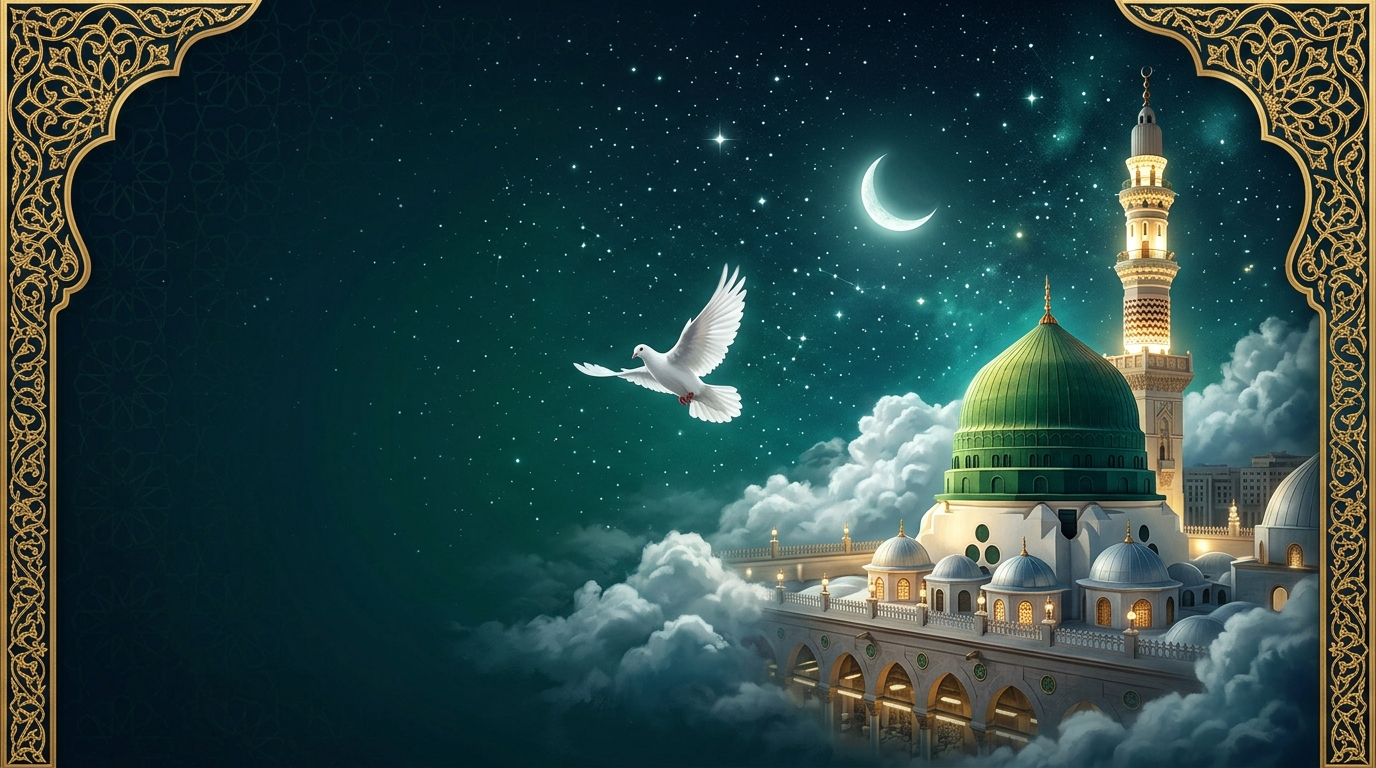
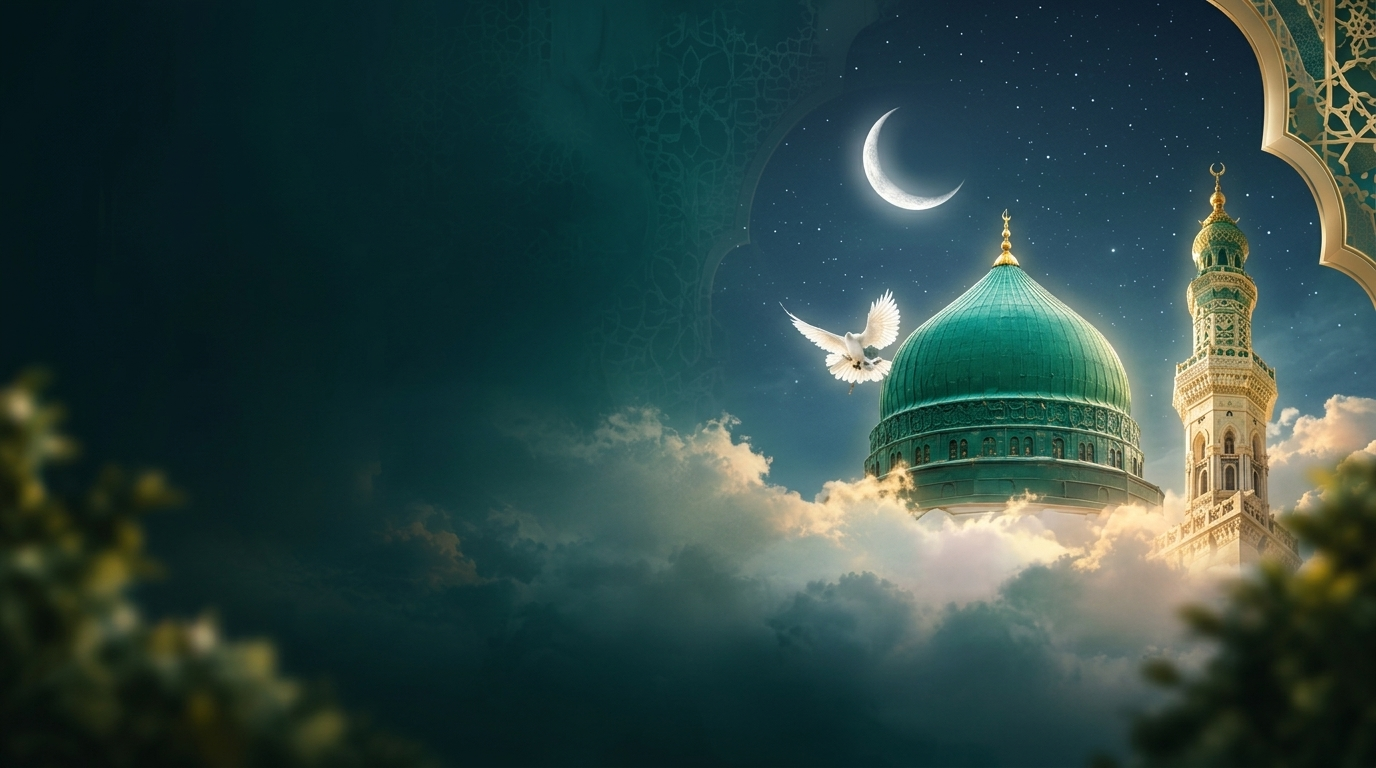
feat: replace hero bg with borderless luxury art, enhance 3D liquid glass blur and beveling

diff --git a/src/components/HeroSection.css b/src/components/HeroSection.css
@@ -21,12 +21,17 @@
   background-image: 
     linear-gradient(
       90deg, 
-      rgba(3, 13, 20, 0.95) 0%, 
-      rgba(3, 13, 20, 0.82) 38%, 
-      rgba(3, 13, 20, 0.35) 65%, 
-      rgba(3, 13, 20, 0.1) 100%
+      rgba(2, 10, 11, 0.90) 0%, 
+      rgba(4, 19, 21, 0.72) 35%, 
+      rgba(4, 19, 21, 0.15) 65%, 
+      transparent 100%
     ),
-    radial-gradient(circle at 80% 45%, rgba(0, 212, 170, 0.12), transparent 45%),
+    linear-gradient(
+      180deg,
+      transparent 75%,
+      rgba(2, 10, 11, 0.98) 100%
+    ),
+    radial-gradient(circle at 78% 45%, rgba(0, 255, 210, 0.08), transparent 50%),
     url('/hero-bg.jpg');
   background-size: cover;
   background-position: center right;
@@ -230,15 +235,30 @@
   display: flex;
   align-items: center;
   gap: 0.85rem;
-  padding: 0.75rem 1.35rem;
-  background: var(--liquid-glass);
-  backdrop-filter: var(--liquid-blur);
-  -webkit-backdrop-filter: var(--liquid-blur);
-  border: 1px solid var(--liquid-border);
+  padding: 0.85rem 1.45rem;
+  background:
+    radial-gradient(
+      120% 100% at 50% 0%,
+      rgba(255, 255, 255, 0.14) 0%,
+      rgba(255, 255, 255, 0.02) 60%,
+      transparent 100%
+    ),
+    linear-gradient(
+      135deg,
+      rgba(255, 255, 255, 0.08) 0%,
+      rgba(255, 255, 255, 0.02) 40%,
+      rgba(0, 255, 210, 0.035) 100%
+    );
+  backdrop-filter: blur(32px) saturate(180%) contrast(105%);
+  -webkit-backdrop-filter: blur(32px) saturate(180%) contrast(105%);
+  border: 1px solid rgba(255, 255, 255, 0.22);
   border-radius: var(--radius-lg);
   box-shadow: 
-    var(--liquid-shadow), 
-    var(--liquid-inset);
+    0 20px 48px -8px rgba(0, 0, 0, 0.65),
+    0 8px 20px -4px rgba(0, 0, 0, 0.40),
+    inset 0 1.5px 0 0 rgba(255, 255, 255, 0.45),
+    inset 1px 0 0 0 rgba(255, 255, 255, 0.18),
+    inset 0 -1.5px 0 0 rgba(0, 0, 0, 0.50);
   transition: var(--transition-liquid);
   position: relative;
   overflow: hidden;
@@ -247,22 +267,28 @@
 .hero-glass-mini-card::before {
   content: '';
   position: absolute;
-  top: 0;
-  left: 0;
-  right: 0;
-  height: 50%;
-  background: linear-gradient(180deg, rgba(255, 255, 255, 0.12) 0%, transparent 100%);
+  top: 1px;
+  left: 8px;
+  right: 8px;
+  height: 45%;
+  background: linear-gradient(
+    180deg,
+    rgba(255, 255, 255, 0.22) 0%,
+    rgba(255, 255, 255, 0.04) 70%,
+    transparent 100%
+  );
+  border-radius: var(--radius-lg);
   pointer-events: none;
 }
 
 .hero-glass-mini-card:hover {
   transform: translateY(-4px) scale(1.02);
-  background: var(--liquid-glass-hover);
-  border-color: var(--liquid-border-hover);
+  border-color: rgba(0, 255, 210, 0.45);
   box-shadow: 
-    var(--liquid-shadow-hover), 
-    0 0 24px rgba(0, 255, 210, 0.15), 
-    var(--liquid-inset);
+    0 28px 60px -8px rgba(0, 0, 0, 0.75),
+    0 0 28px rgba(0, 255, 210, 0.20),
+    inset 0 1.5px 0 0 rgba(255, 255, 255, 0.60),
+    inset 0 -1.5px 0 0 rgba(0, 0, 0, 0.50);
 }
 
 .hero-mini-icon {

diff --git a/src/components/Navbar.css b/src/components/Navbar.css
@@ -16,38 +16,81 @@
   align-items: center;
   border-radius: var(--radius-pill);
   background:
+    radial-gradient(
+      100% 120% at 50% -20%,
+      rgba(255, 255, 255, 0.16) 0%,
+      rgba(255, 255, 255, 0.03) 55%,
+      transparent 100%
+    ),
     linear-gradient(
       135deg,
-      rgba(255, 255, 255, 0.075),
-      rgba(255, 255, 255, 0.025)
+      rgba(255, 255, 255, 0.09) 0%,
+      rgba(255, 255, 255, 0.02) 40%,
+      rgba(0, 255, 210, 0.035) 75%,
+      rgba(255, 255, 255, 0.04) 100%
     );
   backdrop-filter:
-    blur(28px)
-    saturate(145%);
+    blur(36px)
+    saturate(190%)
+    contrast(105%);
   -webkit-backdrop-filter:
-    blur(28px)
-    saturate(145%);
+    blur(36px)
+    saturate(190%)
+    contrast(105%);
   border:
-    1px solid rgba(255, 255, 255, 0.12);
+    1px solid rgba(255, 255, 255, 0.22);
   box-shadow:
-    0 10px 35px rgba(0, 0, 0, 0.28),
-    var(--liquid-inset);
+    0 24px 60px -10px rgba(0, 0, 0, 0.60),
+    0 10px 24px -5px rgba(0, 0, 0, 0.40),
+    0 0 24px 0 rgba(0, 255, 210, 0.08),
+    inset 0 1.5px 0 0 rgba(255, 255, 255, 0.45),
+    inset 1px 0 0 0 rgba(255, 255, 255, 0.18),
+    inset 0 -1.5px 0 0 rgba(0, 0, 0, 0.50),
+    inset 0 0 20px 0 rgba(255, 255, 255, 0.03);
   padding: 0 1.25rem;
   transition: var(--transition-liquid);
+  overflow: hidden;
+}
+
+.navbar::before {
+  content: "";
+  position: absolute;
+  top: 1px;
+  left: 16px;
+  right: 16px;
+  height: 48%;
+  background: linear-gradient(
+    180deg,
+    rgba(255, 255, 255, 0.22) 0%,
+    rgba(255, 255, 255, 0.04) 60%,
+    transparent 100%
+  );
+  border-radius: var(--radius-pill);
+  pointer-events: none;
 }
 
 .navbar-scrolled {
   background:
+    radial-gradient(
+      100% 120% at 50% -20%,
+      rgba(255, 255, 255, 0.18) 0%,
+      rgba(255, 255, 255, 0.04) 55%,
+      transparent 100%
+    ),
     linear-gradient(
       135deg,
-      rgba(255, 255, 255, 0.095),
-      rgba(255, 255, 255, 0.035)
+      rgba(255, 255, 255, 0.11) 0%,
+      rgba(255, 255, 255, 0.035) 40%,
+      rgba(0, 255, 210, 0.045) 75%,
+      rgba(255, 255, 255, 0.05) 100%
     );
-  border-color: rgba(0, 255, 210, 0.28);
+  border-color: rgba(0, 255, 210, 0.35);
   box-shadow:
-    0 16px 40px rgba(0, 0, 0, 0.35),
-    0 0 24px rgba(0, 255, 210, 0.08),
-    var(--liquid-inset);
+    0 28px 70px -10px rgba(0, 0, 0, 0.70),
+    0 12px 28px -5px rgba(0, 0, 0, 0.45),
+    0 0 30px 2px rgba(0, 255, 210, 0.14),
+    inset 0 1.5px 0 0 rgba(255, 255, 255, 0.50),
+    inset 0 -1.5px 0 0 rgba(0, 0, 0, 0.50);
   top: 12px;
 }
 

diff --git a/src/index.css b/src/index.css
@@ -110,43 +110,49 @@
      ========================================================= */
 
   --liquid-border:
-    rgba(255, 255, 255, 0.13);
+    rgba(255, 255, 255, 0.18);
 
   --liquid-border-hover:
-    rgba(0, 255, 210, 0.32);
+    rgba(0, 255, 210, 0.45);
 
 
   /* =========================================================
-     BLUR
+     BLUR (3D Deep Liquid Blur)
      ========================================================= */
 
   --liquid-blur:
-    blur(24px)
-    saturate(140%);
+    blur(32px)
+    saturate(180%)
+    contrast(105%);
 
 
   /* =========================================================
-     SHADOW
+     3D MULTI-LAYER SHADOW
      ========================================================= */
 
   --liquid-shadow:
-    0 18px 50px rgba(0, 0, 0, 0.30),
-    0 5px 18px rgba(0, 0, 0, 0.18);
+    0 24px 60px -12px rgba(0, 0, 0, 0.65),
+    0 10px 24px -6px rgba(0, 0, 0, 0.45),
+    0 2px 6px 0 rgba(0, 0, 0, 0.30),
+    0 0 20px 0 rgba(0, 255, 210, 0.06);
 
 
   --liquid-shadow-hover:
-    0 25px 60px rgba(0, 0, 0, 0.35),
-    0 0 28px rgba(0, 255, 210, 0.07);
+    0 32px 70px -12px rgba(0, 0, 0, 0.75),
+    0 16px 32px -8px rgba(0, 0, 0, 0.50),
+    0 0 35px 2px rgba(0, 255, 210, 0.18);
 
 
   /* =========================================================
-     INTERNAL LIGHT
+     3D BEVELED INTERNAL LIGHT / SPECULAR REFRACTION
      ========================================================= */
 
   --liquid-inset:
-    inset 0 1px 0 rgba(255, 255, 255, 0.22),
-    inset 0 -1px 0 rgba(255, 255, 255, 0.025),
-    inset 1px 0 0 rgba(255, 255, 255, 0.05);
+    inset 0 1.5px 0 0 rgba(255, 255, 255, 0.38),
+    inset 1px 0 0 0 rgba(255, 255, 255, 0.16),
+    inset 0 -1.5px 0 0 rgba(0, 0, 0, 0.55),
+    inset -1px 0 0 0 rgba(0, 0, 0, 0.30),
+    inset 0 0 24px 0 rgba(255, 255, 255, 0.04);
 
 
   /* =========================================================
@@ -391,12 +397,14 @@ p {
   inset: 0;
   background:
     linear-gradient(
-      115deg,
-      rgba(255,255,255,0.10) 0%,
-      rgba(255,255,255,0.025) 18%,
-      transparent 40%
+      125deg,
+      rgba(255, 255, 255, 0.22) 0%,
+      rgba(255, 255, 255, 0.06) 20%,
+      rgba(255, 255, 255, 0.01) 45%,
+      transparent 70%
     );
-  opacity: 0.65;
+  opacity: 0.85;
+  border-radius: inherit;
   pointer-events: none;
 }
 
